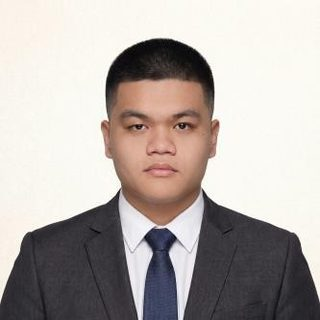
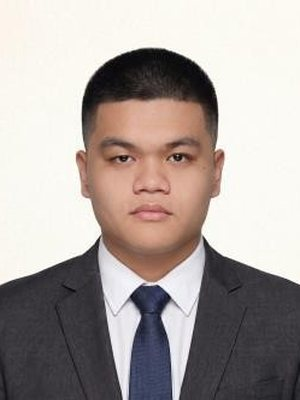
About Us: "Meet the creators of GIYA", with a line about each member
The team section is headed "Meet the creators of GIYA" with a short
introduction, and each member now has a line about what they did under
their name and role. The "four Information Technology students" line is
gone. Same look as before: four across, round photos. In English, Cebuano
and Filipino.

diff --git a/public/assets/css/giya.css b/public/assets/css/giya.css
@@ -7325,19 +7325,24 @@ html[data-theme="dark"] .visit-toast { background: var(--surface-2, #2A211C); }
   background: var(--gold-bg, #FBEFD6); color: var(--primary); font-size: 1rem; }
 .about-does span { padding-top: 6px; }
 
+.about-school { padding: 18px 20px; border: 1px solid var(--border); border-radius: 14px; background: var(--surface, #fff); }
+.about-school h2 { font-size: 1.125rem; }
+.about-school p { margin: 0; }
+html[data-theme="dark"] .about-does .bi { background: rgba(215,169,74,.14); color: var(--gold-light, #E9C77E); }
+
+/* About: the team. Four across, round photos, name and role, then a
+   line about each (the first About design, with the new text). */
+.about-eyebrow { margin: 0 0 6px; font-size: .8125rem; font-weight: 700; color: var(--primary); }
+html[data-theme="dark"] .about-eyebrow { color: var(--gold-light, #E9C77E); }
 .about-team { list-style: none; margin: 18px 0 0; padding: 0; display: grid; grid-template-columns: repeat(4, minmax(0, 1fr)); gap: 22px; }
 .about-member { display: flex; flex-direction: column; align-items: center; text-align: center; gap: 4px; }
-.about-member img { width: 128px; height: 128px; border-radius: 50%; object-fit: cover; object-position: center top;
+.about-member img { width: 128px; height: 128px; border-radius: 50%; object-fit: cover; object-position: center 20%;
   border: 3px solid #fff; box-shadow: 0 6px 18px rgba(36,28,24,.16); margin-bottom: 8px; background: var(--gold-bg, #FBEFD6); }
 .about-member-name { font-weight: 700; font-size: .9375rem; line-height: 1.3; }
 .about-member-role { font-size: .8125rem; color: var(--text-muted); line-height: 1.35; }
+.about-team .about-member-bio { margin: 8px 0 0; max-width: none; font-size: .8125rem; line-height: 1.55; color: var(--text-muted); }
+html[data-theme="dark"] .about-member img { border-color: #2A211C; }
 @media (max-width: 700px) {
   .about-team { grid-template-columns: repeat(2, minmax(0, 1fr)); gap: 24px 14px; }
   .about-member img { width: 104px; height: 104px; }
 }
-
-.about-school { padding: 18px 20px; border: 1px solid var(--border); border-radius: 14px; background: var(--surface, #fff); }
-.about-school h2 { font-size: 1.125rem; }
-.about-school p { margin: 0; }
-html[data-theme="dark"] .about-member img { border-color: #2A211C; }
-html[data-theme="dark"] .about-does .bi { background: rgba(215,169,74,.14); color: var(--gold-light, #E9C77E); }

diff --git a/resources/views/about.blade.php b/resources/views/about.blade.php
@@ -5,10 +5,10 @@
 @php
     // Photos and roles from the team's curriculum vitae in the capstone manuscript.
     $team = [
-        ['Josh Efraim C. Padernal',  __('giya.about.role_pm'),      'josh'],
-        ['Clint Eroll A. Capondag',  __('giya.about.role_design'),  'clint'],
-        ['Lyle Adrien P. Dedumo',    __('giya.about.role_backend'), 'lyle'],
-        ['Ian Francis M. Loyola',    __('giya.about.role_qa'),      'ian'],
+        ['Josh Efraim C. Padernal',  __('giya.about.role_pm'),      'josh',  __('giya.about.bio_pm')],
+        ['Clint Eroll A. Capondag',  __('giya.about.role_design'),  'clint', __('giya.about.bio_design')],
+        ['Lyle Adrien P. Dedumo',    __('giya.about.role_backend'), 'lyle',  __('giya.about.bio_backend')],
+        ['Ian Francis M. Loyola',    __('giya.about.role_qa'),      'ian',   __('giya.about.bio_qa')],
     ];
     $does = [
         ['map-fill',        __('giya.about.does_map')],
@@ -42,14 +42,16 @@
     </section>
 
     <section class="about-section" aria-labelledby="aboutTeam">
+        <p class="about-eyebrow">{{ __('giya.about.team_eyebrow') }}</p>
         <h2 id="aboutTeam">{{ __('giya.about.team_title') }}</h2>
         <p>{{ __('giya.about.team_lead') }}</p>
         <ul class="about-team">
-            @foreach ($team as [$name, $role, $photo])
+            @foreach ($team as [$name, $role, $photo, $bio])
                 <li class="about-member">
-                    <img src="{{ asset('images/team/'.$photo.'.jpg') }}" alt="{{ $name }}" width="160" height="160" loading="lazy">
+                    <img src="{{ asset('images/team/'.$photo.'.jpg') }}" alt="{{ $name }}" width="300" height="400" loading="lazy">
                     <span class="about-member-name">{{ $name }}</span>
                     <span class="about-member-role">{{ $role }}</span>
+                    <p class="about-member-bio">{{ $bio }}</p>
                 </li>
             @endforeach
         </ul>

diff --git a/lang/fil/giya.php b/lang/fil/giya.php
@@ -745,6 +745,11 @@ return [
     ],
 
     'about' => [
+        'bio_qa' => 'Dinisenyo ang database na naglalaman ng bawat simbahan at iskedyul, at sinusubok ang bawat feature bago ito umabot sa mga peregrino.',
+        'bio_backend' => 'Binubuo ang tumatakbo sa likod ng mga screen: ang datos ng simbahan, ang tagaplano ng ruta, ang Giya AI at ang mga bayad.',
+        'bio_design' => 'Hinuhubog kung paano tumingin at gumana ang GIYA, mula sa mapa hanggang sa chat ng Giya AI, para madaling gamitin ang bawat screen sa telepono.',
+        'bio_pm' => 'Pinananatiling nasa tamang landas ang proyekto, mula sa unang survey ng mga peregrino hanggang sa bawat release, at tinitiyak na tugma ang bawat bahagi sa plano.',
+        'team_eyebrow' => 'Grupo ng pagbuo',
         'title' => 'Tungkol sa GIYA',
         'lead' => 'Ang GIYA ay kasama sa paglalakbay-pananampalataya sa Cebu. Tinutulungan nito ang mga deboto at manlalakbay na makahanap ng mga simbahan, makita ang oras ng Misa, magplano ng ruta, at masubaybayan ang mga simbahang nabisita nila.',
         'why_title' => 'Bakit namin ito ginawa',
@@ -756,8 +761,8 @@ return [
         'does_ai' => 'Sumasagot sa mga tanong at nagpaplano ng ruta para sa araw gamit ang Giya AI',
         'does_plan' => 'Nagpaplano ng iyong Visita Iglesia at iba pang paglalakbay',
         'does_visit' => 'Minamarkahan ang mga simbahang binisita mo at itinatala ang iyong progreso',
-        'team_title' => 'Ang grupo',
-        'team_lead' => 'Ang GIYA ay dinisenyo at binuo ng apat na estudyante ng Information Technology.',
+        'team_title' => 'Kilalanin ang mga gumawa ng GIYA',
+        'team_lead' => 'Ang mga tao sa likod ng GIYA, mula sa unang survey ng mga peregrino hanggang sa site na ginagamit mo ngayon.',
         'role_pm' => 'Tagapamahala ng Proyekto',
         'role_design' => 'Tagadisenyo ng UI/UX',
         'role_backend' => 'Back-end na Developer',

diff --git a/lang/ceb/giya.php b/lang/ceb/giya.php
@@ -745,6 +745,11 @@ return [
     ],
 
     'about' => [
+        'bio_qa' => 'Nagdisenyo sa database nga naghupot sa matag simbahan ug iskedyul, ug nagsulay sa matag bahin sa dili pa kini maabot sa mga peregrino.',
+        'bio_backend' => 'Naghimo sa nagdagan sa likod sa mga screen: ang datos sa simbahan, ang tigplano sa ruta, ang Giya AI ug mga bayad.',
+        'bio_design' => 'Naghulma kon unsaon pagtan-aw ug paggamit sa GIYA, gikan sa mapa hangtod sa chat sa Giya AI, aron sayon gamiton ang matag screen sa telepono.',
+        'bio_pm' => 'Nagdumala nga magpadayon ang proyekto, gikan sa unang survey sa mga peregrino hangtod sa matag release, ug nagsiguro nga ang matag bahin mohaom sa plano.',
+        'team_eyebrow' => 'Grupo sa pagpalambo',
         'title' => 'Mahitungod sa GIYA',
         'lead' => 'Ang GIYA usa ka kauban sa paglakaw-pagtuo sa Sugbo. Gitabangan niini ang mga deboto ug biyahedor nga makapangita og mga simbahan, makatan-aw sa oras sa Misa, makaplano og ruta, ug makasubay sa mga simbahan nga ilang nabisitahan.',
         'why_title' => 'Ngano nga gihimo namo kini',
@@ -756,8 +761,8 @@ return [
         'does_ai' => 'Motubag sa mga pangutana ug moplano og ruta alang sa adlaw pinaagi sa Giya AI',
         'does_plan' => 'Moplano sa imong Visita Iglesia ug uban pang paglakaw-pagtuo',
         'does_visit' => 'Markahan ang mga simbahan nga imong gibisitahan ug tipigan ang imong pag-uswag',
-        'team_title' => 'Ang grupo',
-        'team_lead' => 'Ang GIYA gidisenyo ug gihimo sa upat ka estudyante sa Information Technology.',
+        'team_title' => 'Ilha ang mga naghimo sa GIYA',
+        'team_lead' => 'Ang mga tawo sa likod sa GIYA, gikan sa unang survey sa mga peregrino hangtod sa site nga imong gigamit karon.',
         'role_pm' => 'Tagdumala sa Proyekto',
         'role_design' => 'Tigdisenyo sa UI/UX',
         'role_backend' => 'Back-end nga Developer',

diff --git a/lang/en/giya.php b/lang/en/giya.php
@@ -755,6 +755,11 @@ return [
     ],
 
     'about' => [
+        'bio_qa' => 'Designs the database that holds every church and schedule, and tests each feature before it reaches pilgrims.',
+        'bio_backend' => 'Builds what runs behind the screens: the church data, the route planner, Giya AI and payments.',
+        'bio_design' => 'Shapes how GIYA looks and feels, from the map to the Giya AI chat, so every screen is easy to use on a phone.',
+        'bio_pm' => 'Keeps the project on track, from the first survey of pilgrims to every release, and makes sure each piece fits the plan.',
+        'team_eyebrow' => 'Development team',
         'title' => 'About GIYA',
         'lead' => 'GIYA is a pilgrimage companion for Cebu. It helps devotees and travelers find churches, check Mass times, plan a route and keep track of the churches they have visited.',
         'why_title' => 'Why we built it',
@@ -766,8 +771,8 @@ return [
         'does_ai' => 'Answers questions and plans a route for the day with Giya AI',
         'does_plan' => 'Plans your Visita Iglesia and other pilgrimages',
         'does_visit' => 'Marks the churches you visit and keeps your progress',
-        'team_title' => 'The team',
-        'team_lead' => 'GIYA was designed and built by four Information Technology students.',
+        'team_title' => 'Meet the creators of GIYA',
+        'team_lead' => 'The people behind GIYA, from the first survey of pilgrims to the site you are using now.',
         'role_pm' => 'Project Manager',
         'role_design' => 'UI/UX Designer',
         'role_backend' => 'Back-end Developer',
